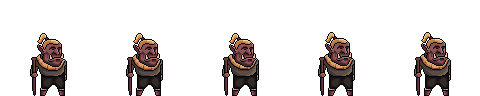
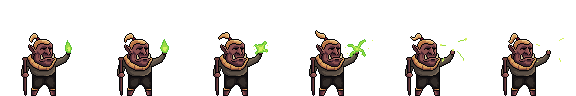
update colors for cells and orc2

diff --git a/src/orc_automata/rendering/pygame_renderer.py b/src/orc_automata/rendering/pygame_renderer.py
@@ -1,5 +1,6 @@
 from __future__ import annotations
 
+import random
 from importlib import resources
 from pathlib import Path
 from typing import List, Optional
@@ -8,7 +9,7 @@ import pygame
 
 from ..config import SimulationSettings
 from ..simulation import Simulation
-from .colors import DEEP_BG, GRID, HUD, blend_biome, color_for_humidity, color_for_orc
+from .colors import DEEP_BG, GRID, HUD, blend_biome, color_for_cell, color_for_humidity, color_for_orc
 
 
 class PygameRenderer:
@@ -23,6 +24,7 @@ class PygameRenderer:
         pygame.display.set_caption("Orcos - Automata Celular")
         self.font = pygame.font.SysFont("consolas", 16)
         self.running = True
+        self._noise_rng = random.Random(42)
         self.sprites = self._load_sprites()
 
     def handle_events(self) -> dict:
@@ -60,6 +62,8 @@ class PygameRenderer:
             fallback = pygame.Surface((self.cell_size, self.cell_size), pygame.SRCALPHA)
             fallback.fill((200, 80, 80))
             sprites.append(fallback)
+        if len(sprites) >= 2:
+            sprites[1] = self._tint_sprite(sprites[1], (255, 240, 150))
         return sprites
 
     def _load_resource_sprite(self, filename: str) -> Optional[pygame.Surface]:
@@ -86,14 +90,16 @@ class PygameRenderer:
         frame_width = max(1, sprite.get_width() // frames)
         frame_rect = pygame.Rect(0, 0, frame_width, sprite.get_height())
         first_frame = sprite.subsurface(frame_rect).copy()
-        return pygame.transform.smoothscale(first_frame, (self.cell_size, self.cell_size))
+        size = max(1, int(self.cell_size * 1.3))
+        scaled = pygame.transform.smoothscale(first_frame, (size, size))
+        return scaled
 
     def _draw_environment(self, simulation: Simulation) -> None:
         for y in range(self.settings.grid_height):
             for x in range(self.settings.grid_width):
                 humidity = simulation.environment.humidity_at(x, y)
                 biome = simulation.environment.biome_at(x, y)
-                color = blend_biome(color_for_humidity(humidity), biome)
+                color = blend_biome(color_for_cell(biome, humidity), biome, strength=0.08)
                 rect = pygame.Rect(
                     x * self.cell_size,
                     y * self.cell_size,
@@ -101,6 +107,7 @@ class PygameRenderer:
                     self.cell_size,
                 )
                 self.screen.fill(color, rect)
+                self._draw_cell_noise(x, y, biome)
 
     def _draw_grid(self) -> None:
         for x in range(0, self.width_px, self.cell_size):
@@ -115,7 +122,11 @@ class PygameRenderer:
             pos = (x * self.cell_size + margin, y * self.cell_size + margin)
             sprite = self._sprite_for_orc(orc)
             if sprite is not None:
-                self.screen.blit(sprite, pos)
+                cell_surface = pygame.Surface((self.cell_size, self.cell_size), pygame.SRCALPHA)
+                rect = sprite.get_rect()
+                rect.center = (self.cell_size // 2, self.cell_size // 2)
+                cell_surface.blit(sprite, rect)
+                self.screen.blit(cell_surface, (x * self.cell_size, y * self.cell_size))
             else:
                 rect = pygame.Rect(
                     pos[0],
@@ -147,3 +158,24 @@ class PygameRenderer:
         if not self.sprites:
             return None
         return self.sprites[orc.kind % len(self.sprites)]
+
+    def _draw_cell_noise(self, x: int, y: int, biome: int) -> None:
+        rng = random.Random((x * 73856093) ^ (y * 19349663) ^ (biome * 83492791))
+        overlay = pygame.Surface((self.cell_size, self.cell_size), pygame.SRCALPHA)
+        blotches = rng.randint(3, 6)
+        for _ in range(blotches):
+            r = max(2, self.cell_size // 6 + rng.randint(-1, 1))
+            cx = rng.randint(r, self.cell_size - r)
+            cy = rng.randint(r, self.cell_size - r)
+            alpha = rng.randint(40, 70)
+            # Subtle darker blotches per biome.
+            blot_color = blend_biome(color_for_humidity(0.5), biome, strength=0.25)
+            color = (blot_color[0], blot_color[1], blot_color[2], alpha)
+            pygame.draw.circle(overlay, color, (cx, cy), r)
+        self.screen.blit(overlay, (x * self.cell_size, y * self.cell_size))
+
+    def _tint_sprite(self, sprite: pygame.Surface, rgb: tuple[int, int, int]) -> pygame.Surface:
+        tinted = sprite.copy()
+        tinted.fill(rgb + (0,), special_flags=pygame.BLEND_RGB_MULT)
+        tinted.fill((15, 12, 0, 0), special_flags=pygame.BLEND_RGB_ADD)
+        return tinted

diff --git a/src/orc_automata/rendering/colors.py b/src/orc_automata/rendering/colors.py
@@ -15,6 +15,11 @@ BIOME_TINTS: list[Color] = [
     (0, 25, 5),    # biome 1 slight green
     (0, 5, 30),    # biome 2 slight blue
 ]
+BIOME_BASE: list[Color] = [
+    (132, 102, 74),  # tierra
+    (90, 138, 82),   # pasto
+    (46, 160, 164),  # agua/humedo
+]
 
 
 def _clamp(value: float, low: float, high: float) -> float:
@@ -63,3 +68,13 @@ def color_for_humidity(value: float) -> Color:
 def blend_biome(base: Color, biome: int, strength: float = 0.18) -> Color:
     tint = BIOME_TINTS[biome % len(BIOME_TINTS)]
     return _lerp(base, tint, strength)
+
+
+def color_for_cell(biome: int, humidity: float) -> Color:
+    base = BIOME_BASE[biome % len(BIOME_BASE)]
+    light = _clamp(0.6 + humidity * 0.25, 0.5, 0.95)
+    return (
+        int(base[0] * light),
+        int(base[1] * light),
+        int(base[2] * light),
+    )
